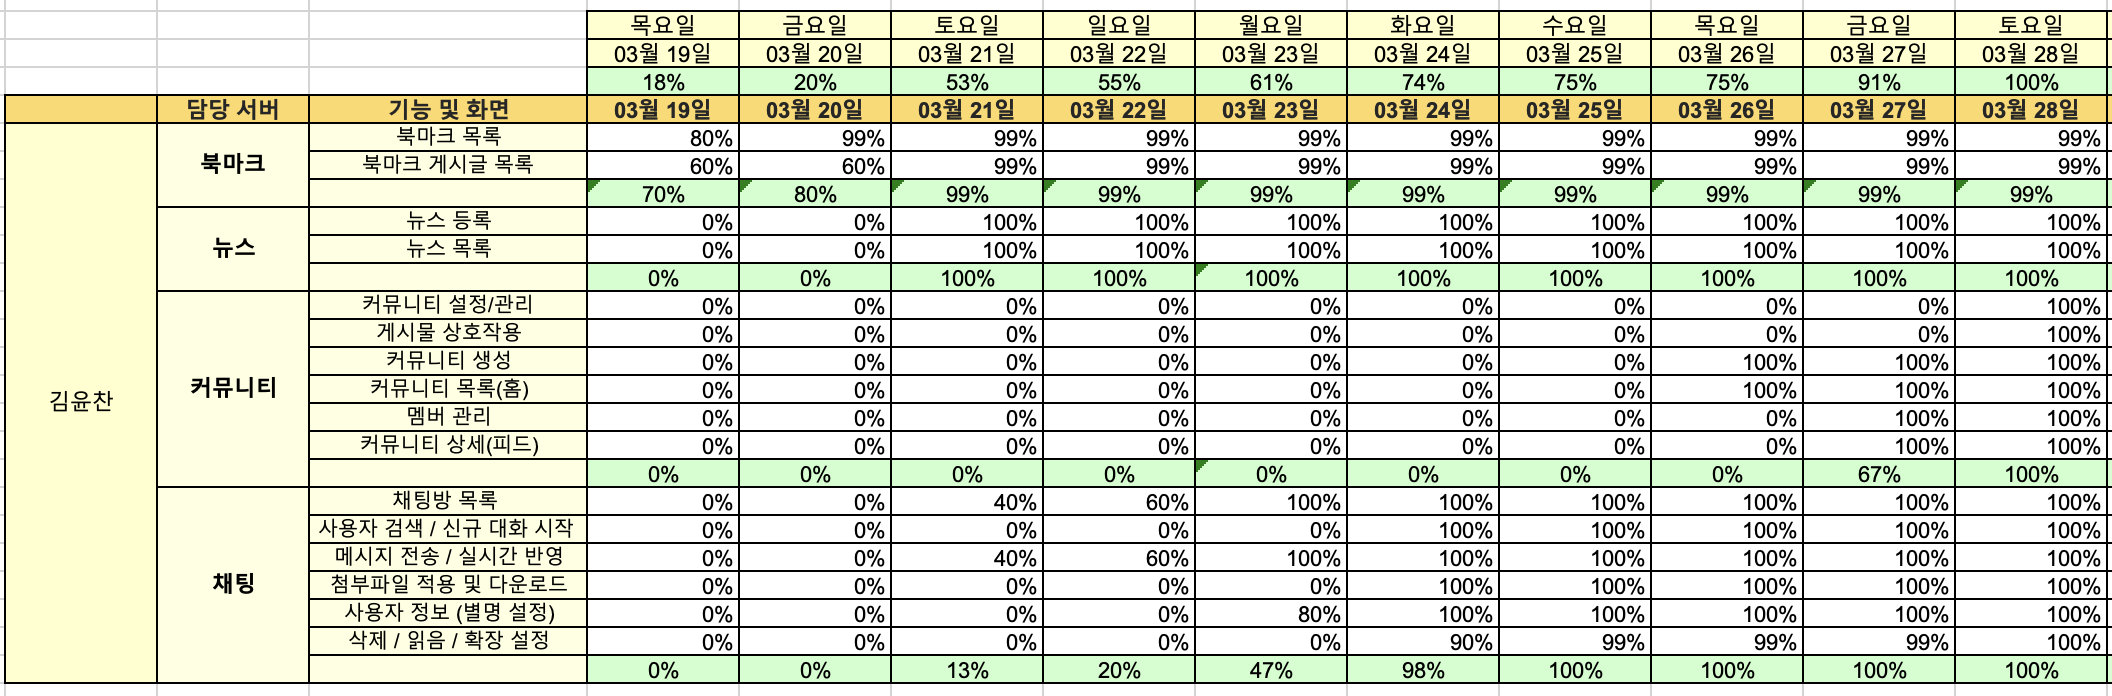
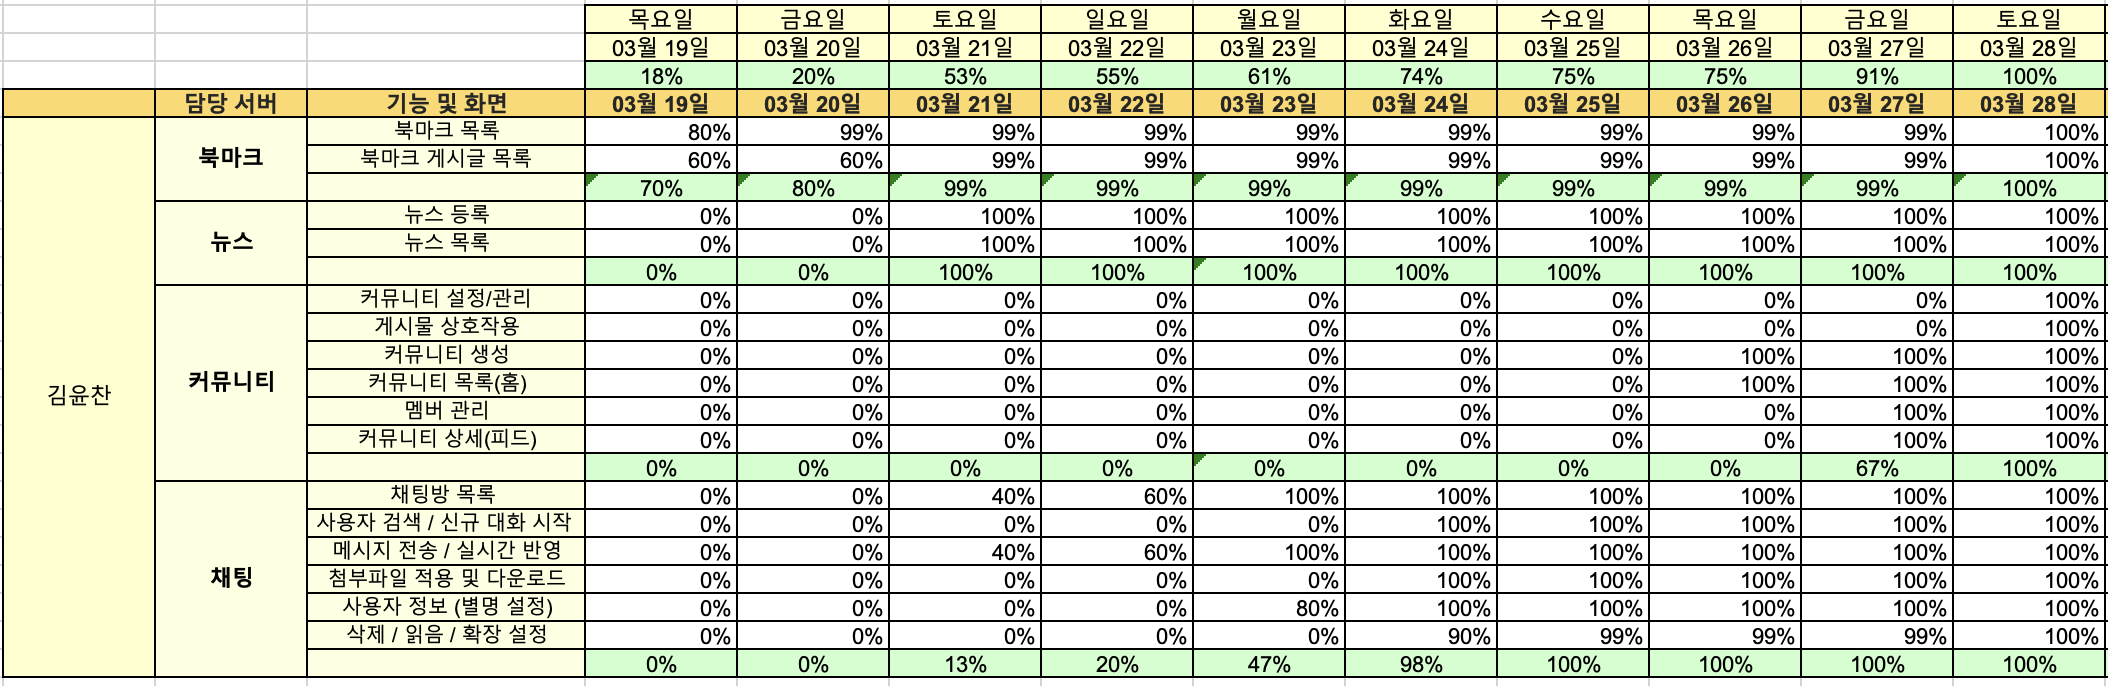
docs: 총평 5단락 상세 버전으로 교체 · 업무분담 이미지 갱신

diff --git a/README.md b/README.md
@@ -212,10 +212,34 @@ if (jwtTokenProvider.validateToken(accessToken)) {
 
 ## 총평
 
-**기획** — 무역이라는 키워드로 커뮤니티형 플랫폼을 만든다는 점에서 참고할 레퍼런스를 찾기 어려웠다. 그러나 반도국가에서 무역을 통한 수익화는 중소기업에게도 필수불가결한 요소라고 판단했고, 실제 상용 서비스로 이어질 수 있도록 기획하다 보니 의도를 탄탄하게 녹여낼 수 있었다.
+### 1. 기획 및 요구사항 정의 — 비즈니스 로직에 대한 깊은 고민과 갈등 해결
 
-**협업** — Spring Boot는 1차 프로젝트 경험이 있어 수월할 것이라 예상했지만, Spring Security와 JWT 적용 과정이 복잡해 팀원들과 함께 스터디하며 적용했다. 부팀장으로서 팀장 부재 시 GitHub 관리를 도맡았고, 단체 QA 단계에서 서로의 작업을 보완하는 데 힘썼다.
+'무역'이라는 특수하고 전문적인 도메인을 다루는 커뮤니티형 플랫폼을 기획하는 것은 참고할 만한 레퍼런스가 부족하여 초기 방향성을 수립하는 데 큰 도전이었다. 하지만 반도국가인 우리나라의 특성상 무역을 통한 수익화는 중소기업에게 필수불가결한 요소라고 판단했다. 이에 따라 단순한 게시판 형태를 넘어, 실제 B2B 실무자들이 유의미한 정보를 교류하고 상용화 수준으로 이용할 수 있는 플랫폼을 목표로 기획의 뼈대를 세웠다.
 
-**좋았던 점** — 이전 프로젝트가 웹 구현 자체에 집중했다면, 이번에는 AI 콘텐츠를 직접 결합해 한층 완성도 높은 사이트를 구현했다. 직접 배포하는 과정이 흥미로웠고, 그 과정에서 Docker를 활용해 본 것도 기술적으로 큰 수확이었다.
+매일 진행된 기획 회의에서는 각자가 생각하는 서비스의 방향성이 달라 잦은 의견 충돌이 발생했다. 부팀장으로서 이러한 소통의 병목을 해결하는 것이 프로젝트 성공의 첫걸음이라 생각했고, 회의 중 나오는 추상적인 아이디어와 상충하는 의견들을 메모장에 실시간으로 문서화하며 회원 권한 관리, 게시글 카테고리 분류, 무역 정보 제공 등 필수 요구사항(Requirements)을 정리했다.
 
-**아쉬웠던 점** — 짧은 기간이지만 더 완성도 높은 결과물을 위해 개인 작업에 많은 시간을 투자했다. 그러다 보니 진도를 따라오지 못한 팀원을 도울 여력이 부족했고, 부팀장으로서 리더십을 충분히 발휘하지 못한 점이 아쉽다. 앞으로는 책임감을 갖고 소통으로 풀어가야 할 부분이다.
+시각화된 자료를 바탕으로 회의를 진행하자 팀원들도 자신의 의견을 객관적으로 되돌아보게 되었고, 점진적으로 타협점을 찾아 탄탄한 기획안을 완성할 수 있었다. 이렇게 정리한 요구사항은 API 명세와 ERD(데이터베이스 설계) 등 구체적인 백엔드 설계로 연결지었다. 출석하지 못하거나 조퇴하는 팀원이 생기면 이 문서를 공유해 프로젝트의 연속성을 잃지 않도록 했고, 갈등이 심화될 때는 문서를 기반으로 각자의 입장을 존중하는 중재자 역할을 수행하며 팀을 하나로 뭉치게 하는 커뮤니케이션 역량을 길렀다.
+
+### 2. 협업과 리더십 — 위기를 기회로 만든 스터디와 코드 품질 관리
+
+팀 프로젝트의 핵심은 '개인의 실력을 모아 시너지를 내는 것'이었다. 팀장의 부재 시에는 내가 GitHub 레포지토리 관리를 전담하며 브랜치 전략을 수립하고, 코드 병합(Merge) 과정의 충돌(Conflict)을 최소화하기 위한 코드 리뷰 분위기를 조성했다. 특히 단체 QA 작업 시 서로가 개발한 API의 응답 값과 예외 처리 방식을 체크하며 시스템의 안정성을 높이는 데 주력했다.
+
+팀원 간 숙련도 차이로 개발 속도에 편차가 생기는 어려움이 있었다. 이를 극복하기 위해 진도가 더딘 팀원들과는 자발적으로 밤 10시까지 남아 함께 디버깅하고 설계 방향성을 잡아주었으며, 귀가 후에도 Discord 화면 공유로 비동기적으로 소통했다. 평소 점심식사를 함께하며 유대감을 형성해 둔 덕분에 누구나 막힘이 있을 때 주저 없이 도움을 요청하는 수평적이고 협력적인 팀 문화가 정착되었다.
+
+이러한 결속력은 프로젝트 중반, 부득이하게 팀원이 이탈하는 위기 상황에서 빛을 발했다. 남은 팀원들이 당황하지 않고 이탈한 팀원의 몫을 재분배해 맡았으며, Google Docs로 각자가 이해한 기술적 내용과 구현 방식을 문서화해 공유했다. 학습 자료가 투명하게 공유되자 팀 전체의 기술적 이해도가 상향 평준화되었고, 결과적으로 다른 팀들보다 빠르고 안정적으로 프로젝트를 완수할 수 있었다.
+
+### 3. 백엔드 기술적 도전 — Spring Security와 JWT 인증/인가 아키텍처
+
+이전 프로젝트에서 Spring Boot의 기본적인 MVC 패턴을 경험해 초기 세팅은 수월했지만, 이번 프로젝트의 가장 큰 기술적 허들은 Spring Security와 JWT(JSON Web Token)를 결합한 인증·인가 시스템의 도입이었다. 무역 플랫폼의 특성상 사용자 권한(일반 유저, 기업 유저, 관리자 등)에 따른 철저한 접근 제어가 필요했다. 세션 기반 인증 대신 서버 상태를 유지하지 않는(Stateless) JWT 방식을 채택하면서 Filter Chain의 동작 원리를 깊이 있게 파악해야 했고, Access Token과 Refresh Token의 생명주기를 설정하고 토큰 만료 시 발생하는 예외를 클라이언트에게 명확한 상태 코드로 전달하는 커스텀 예외 처리 로직을 구현하는 과정이 복잡했다. 팀원들과 Security 구조를 심도 있게 스터디하며 문제를 돌파했고, 결과적으로 확장성 있고 안전한 RESTful API 서버를 구축하는 귀중한 기술적 자산을 얻었다.
+
+### 4. 좋았던 점 — 단순 웹을 넘어선 AI 콘텐츠 연동과 Docker 인프라 배포
+
+가장 큰 성취감을 느낀 부분은 이전처럼 단순한 CRUD 웹 서비스 구현에 그치지 않고, AI 기반 콘텐츠를 직접 시스템에 심어 더 트렌디하고 고도화된 서비스를 구축했다는 점이다. 외부 AI를 호출하고 응답 데이터를 파싱해 클라이언트 UI에 맞게 가공·전달하는 백엔드의 중계자 역할을 충실히 수행하며 외부 리소스 연동에 대한 자신감을 얻었다.
+
+또한 로컬 개발을 넘어 완성된 애플리케이션을 직접 서버에 배포하는 인프라 구축 과정이 매우 흥미로웠다. 특히 Docker로 애플리케이션과 실행 환경을 컨테이너화한 것은 기술적으로 큰 도약이었다. 환경 변수 설정이나 버전 충돌 문제를 최소화하며 배포 프로세스를 규격화하는 경험을 통해, 단순히 코드를 짜는 개발자를 넘어 서버 운영과 배포 환경까지 종합적으로 고려하는 백엔드 엔지니어로서의 시야를 넓힐 수 있었다.
+
+### 5. 아쉬웠던 점 및 향후 목표 — 코드의 깊이와 성능 최적화에 대한 갈증
+
+짧은 개발 기간 속에서도 더 완벽한 작업물을 위해 많은 시간을 투자하며 코딩에 매진했지만, 돌이켜보면 아쉬운 점도 있다. 기능 구현과 기한 준수에 집중하다 보니 중복 코드를 완벽히 리팩토링하거나 객체지향 설계 원칙(SOLID)을 더 철저히 지키지 못한 부분들이 눈에 밟힌다.
+
+이번 프로젝트의 경험을 바탕으로, 향후에는 대용량 트래픽 상황에서의 쿼리 최적화, Redis를 활용한 캐싱 처리, 그리고 TDD(테스트 주도 개발)를 깊이 있게 학습해 더욱 견고하고 유지보수성 높은 백엔드 아키텍처를 설계하는 개발자로 성장하겠다.
